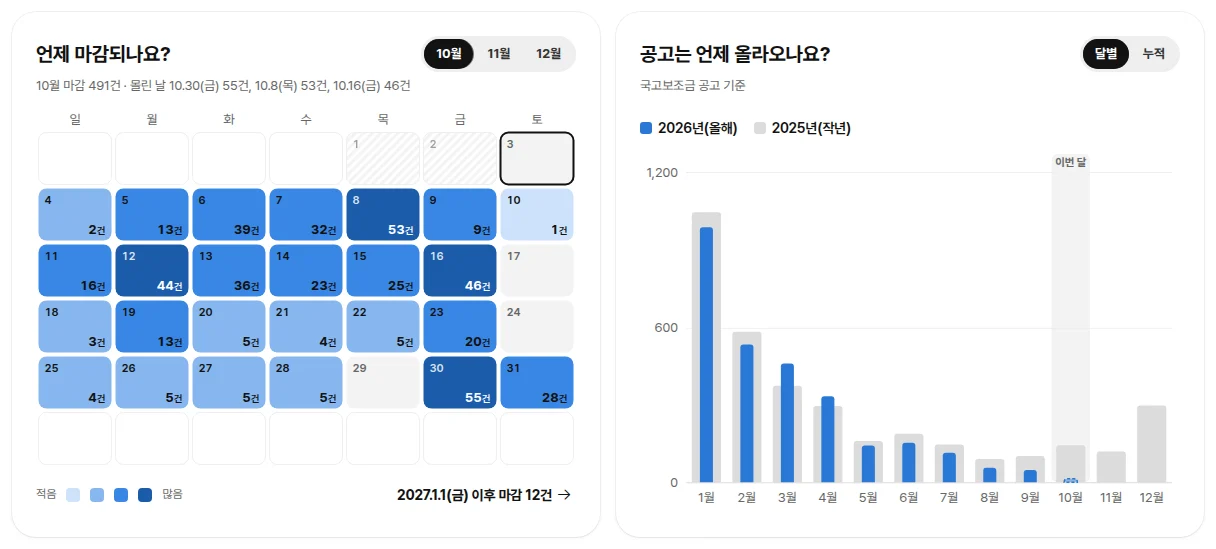
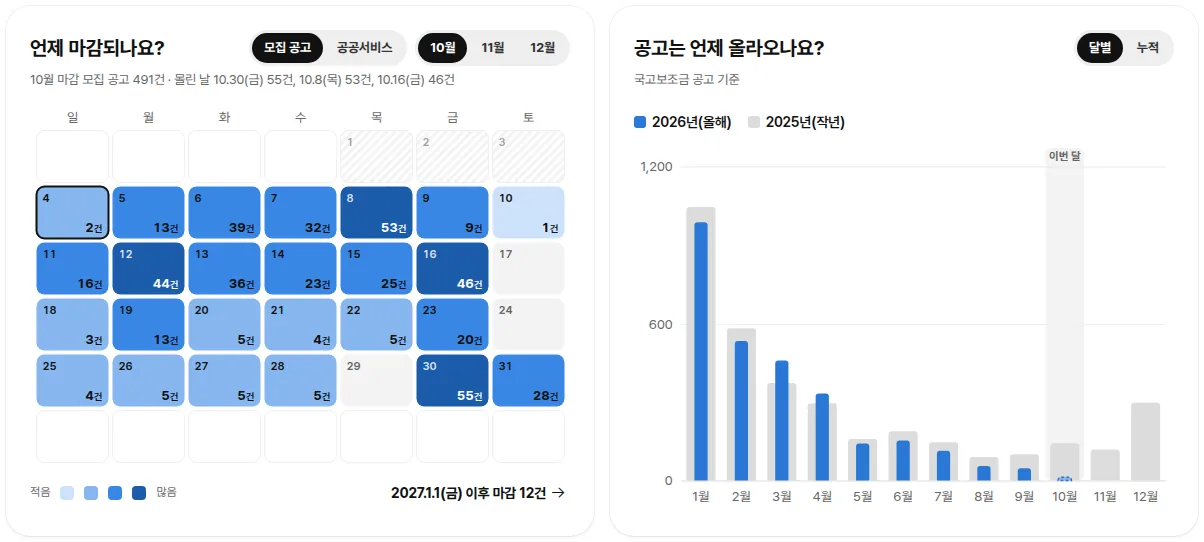
README 화면 그림 새로 찍음: 공공서비스·숫자 타일 6장·가운데 요약 창·마감 달력 단추 반영

diff --git a/README.md b/README.md
@@ -61,6 +61,8 @@
 - 🆕 **오늘 올라온 공고 / ⏰ 오늘 마감인 지원사업**: 누르면 그것만 목록으로 모아 보여 줍니다(오늘 마감에는 마감일 있는 공공서비스도 포함).
 - 🔎 **검색과 지역 선택**: '스마트팜', '청년', '수출'처럼 낱말로 찾고, 지역을 고르면 홈의 모든 숫자와 그래프가 그 지역 기준으로 바뀝니다.
 - 📈 **숫자 타일 6장**: 7일 안에 마감(모집 공고 + 마감일 있는 공공서비스) · 접수 예정 · 예산 소진 시까지 · 상시 접수 · 공공서비스 · **내 조건에 맞음**(나이·소득·성별을 넣으면, 그 조건이 적혀 있고 맞는 지원사업 수 — 이 기기에만 기억). 누르면 그래프처럼 **요약 창**이 먼저 뜨고(분야·대상·지역, 많이 본 3건), '모두 보기'로 목록에 갑니다. '7일 안에 마감'은 모집 공고·공공서비스 **두 장**으로 나눠 보여 줍니다.
+<p align="center"><img src="docs/images/stat-peek.webp" alt="숫자 타일 '7일 안에 마감'을 누르면 뜨는 가운데 요약 창 — 모집 공고와 공공서비스 두 장" width="620"></p>
+
 - ⭐ **관심 담은 지원사업**: 상세 화면에서 '관심 담기'를 누른 공고가 홈 맨 위에 모입니다. 마감이 가까운 순서로 보여 주고, 담은 뒤 마감일이 바뀌면 알려 줍니다.
 - 👥 **나에게 맞는 지원 찾기**: 청년, 농업인, 소상공인 등 18가지 대상 중 하나를 누르면 그 대상의 지원사업이 바로 나옵니다.
 
@@ -153,7 +155,7 @@
 
 ## 📱 휴대폰에서도 편하게
 
-![휴대폰 화면 - 홈, 요약 시트, 공고 상세](docs/images/mobile.webp)
+![휴대폰 화면 - 홈, 숫자 타일 6장, 요약 시트, 공고 상세](docs/images/mobile.webp)
 
 - 📲 휴대폰에서는 위쪽을 탭 줄 하나로 줄여 화면을 넓게 씁니다. 스크롤해도 탭과 단추가 늘 위에 있어요.
 - 👆 그래프를 누르면 **아래에서 요약 시트**가 올라옵니다. '뒤로 가기'를 누르면 시트만 닫혀요.
